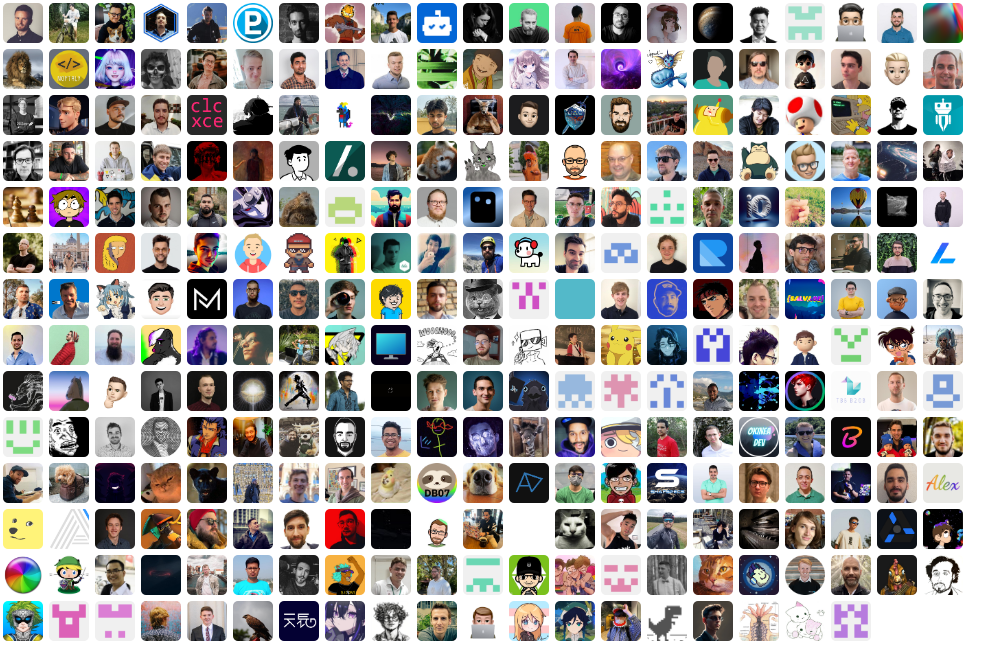
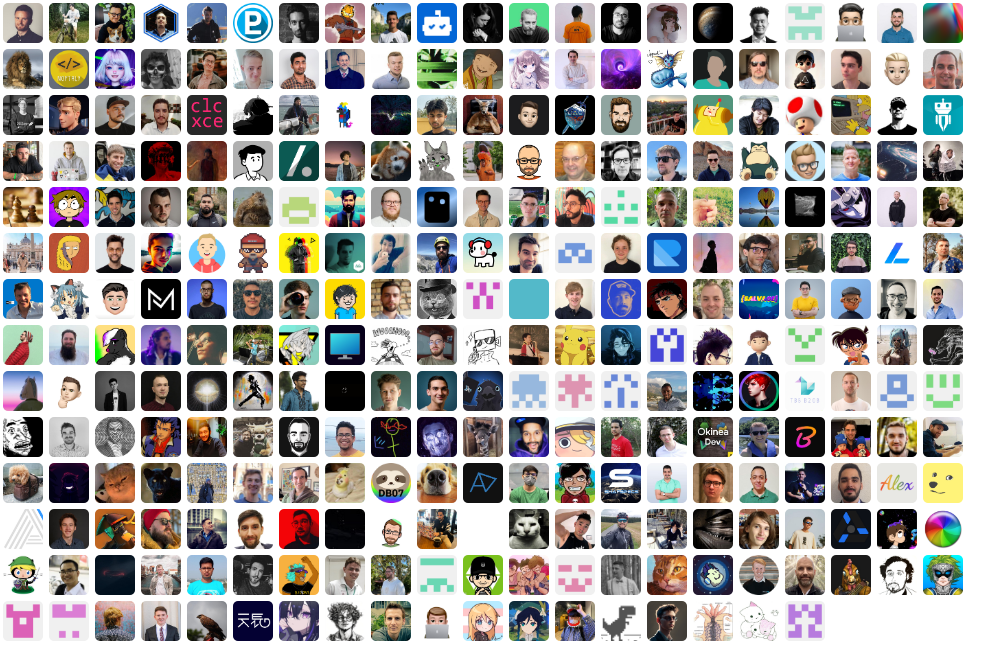
release: 🔖 v0.7.0

diff --git a/CHANGELOG.md b/CHANGELOG.md
@@ -3,10 +3,30 @@
  All notable changes to this project will be documented in this file. Dates are displayed in UTC.
 
  
+#### [v0.7.0](https://github.com/PKief/vscode-material-icon-theme/compare/v0.6.0...v0.7.0) 
+
+> February 11, 2024 
+
+- fix: 🚑 light versions [`cf576f45`](https://github.com/PKief/vscode-material-icon-theme/commit/cf576f45)
+- feat: ✨ pixel perfect ai icons [`1573c7ba`](https://github.com/PKief/vscode-material-icon-theme/commit/1573c7ba)
+- feat: ✨ pixel perfect lucodear specific icons [`3e99ad87`](https://github.com/PKief/vscode-material-icon-theme/commit/3e99ad87)
+- chore: 🧹 ~misc.ai update [`35e2c638`](https://github.com/PKief/vscode-material-icon-theme/commit/35e2c638)
+- fix: 🚑 idea folders colors [`0c158c50`](https://github.com/PKief/vscode-material-icon-theme/commit/0c158c50)
+- fix: 🚑 missing .idea file icon light version [`dda7e362`](https://github.com/PKief/vscode-material-icon-theme/commit/dda7e362)
+- fix: 🚑 folder decorator file name [`4efe4ad5`](https://github.com/PKief/vscode-material-icon-theme/commit/4efe4ad5)
+- fix: 🚑 remove wrong named and repeated icon [`0023f4bd`](https://github.com/PKief/vscode-material-icon-theme/commit/0023f4bd)
+- feat: ✨ pixel-perfect lucodear misc icons [`5ed50a40`](https://github.com/PKief/vscode-material-icon-theme/commit/5ed50a40)
+- feat: ✨ pixel perfect lucodear typescript icons [`7f284950`](https://github.com/PKief/vscode-material-icon-theme/commit/7f284950)
+- fix: 🚑 light theme colors [`2ad201cf`](https://github.com/PKief/vscode-material-icon-theme/commit/2ad201cf)
+- feat: ✨ pixel perfect lucodear python icons [`a9efd8b1`](https://github.com/PKief/vscode-material-icon-theme/commit/a9efd8b1)
+- feat: ✨ react icons variants [`b3088bed`](https://github.com/PKief/vscode-material-icon-theme/commit/b3088bed)
+- Add PKL icon [`#2217`](https://github.com/PKief/vscode-material-icon-theme/pull/2217)
+ 
 #### [v0.6.0](https://github.com/PKief/vscode-material-icon-theme/compare/v0.5.1...v0.6.0) 
 
 > February 9, 2024 
 
+- release: 🔖 v0.6.0 [`fb329ee3`](https://github.com/PKief/vscode-material-icon-theme/commit/fb329ee3)
 - fix: 🚑 duplicated icons in preview [`2520eebb`](https://github.com/PKief/vscode-material-icon-theme/commit/2520eebb)
 - fix: 🚑 fix colors not aligning with material colors [`a22a1131`](https://github.com/PKief/vscode-material-icon-theme/commit/a22a1131)
 - ci: 🔄 fix ci action routes [`9b1bac4b`](https://github.com/PKief/vscode-material-icon-theme/commit/9b1bac4b)
